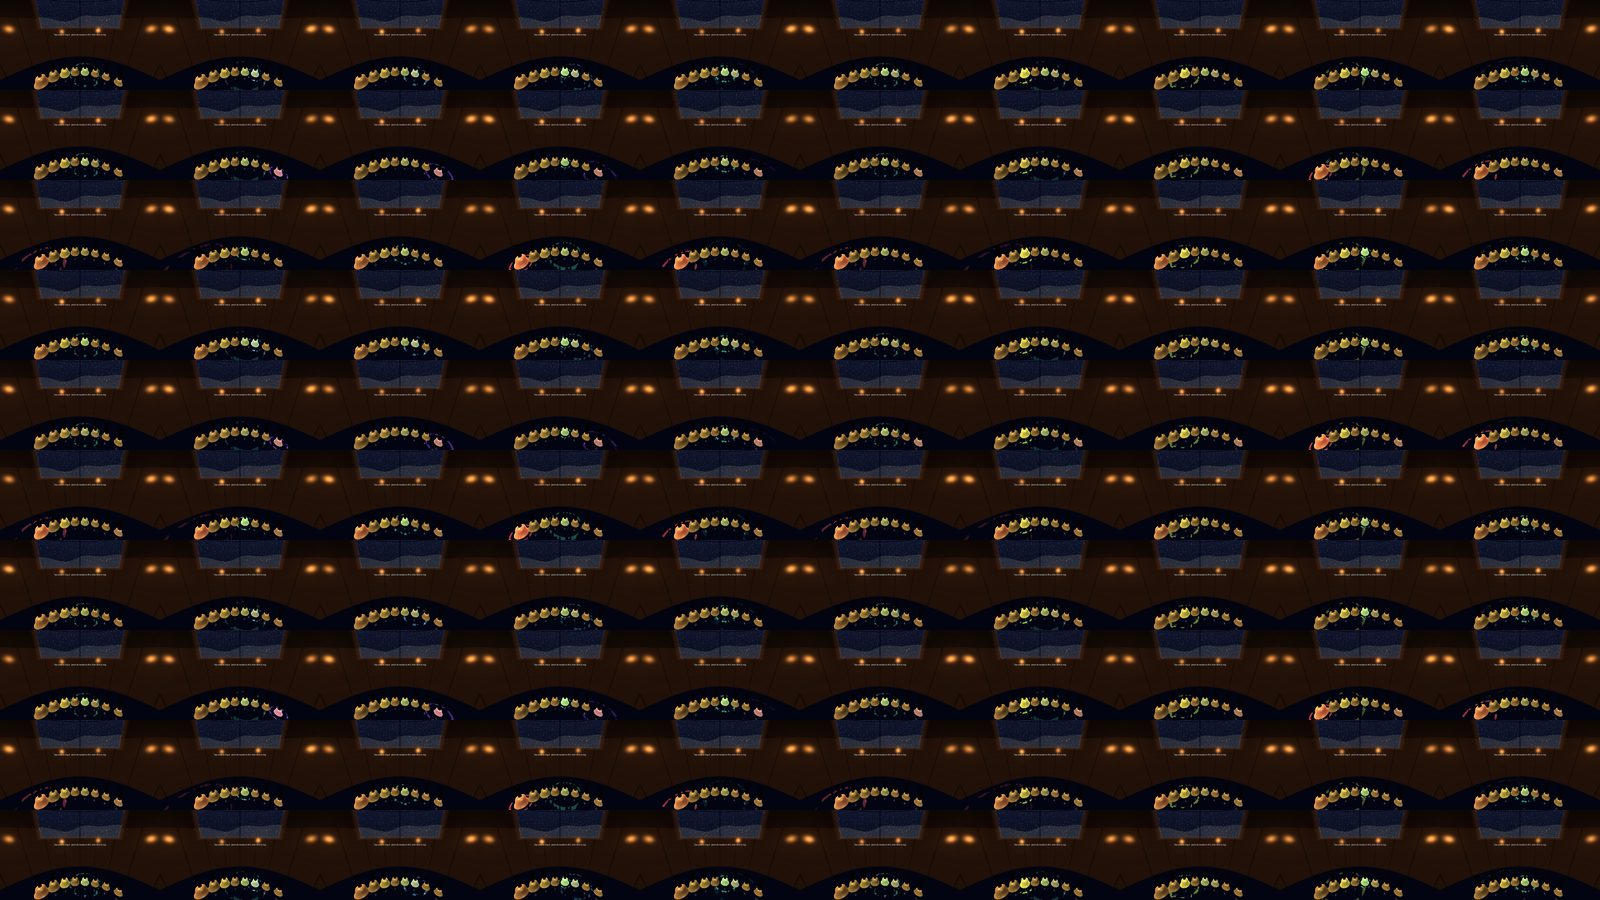
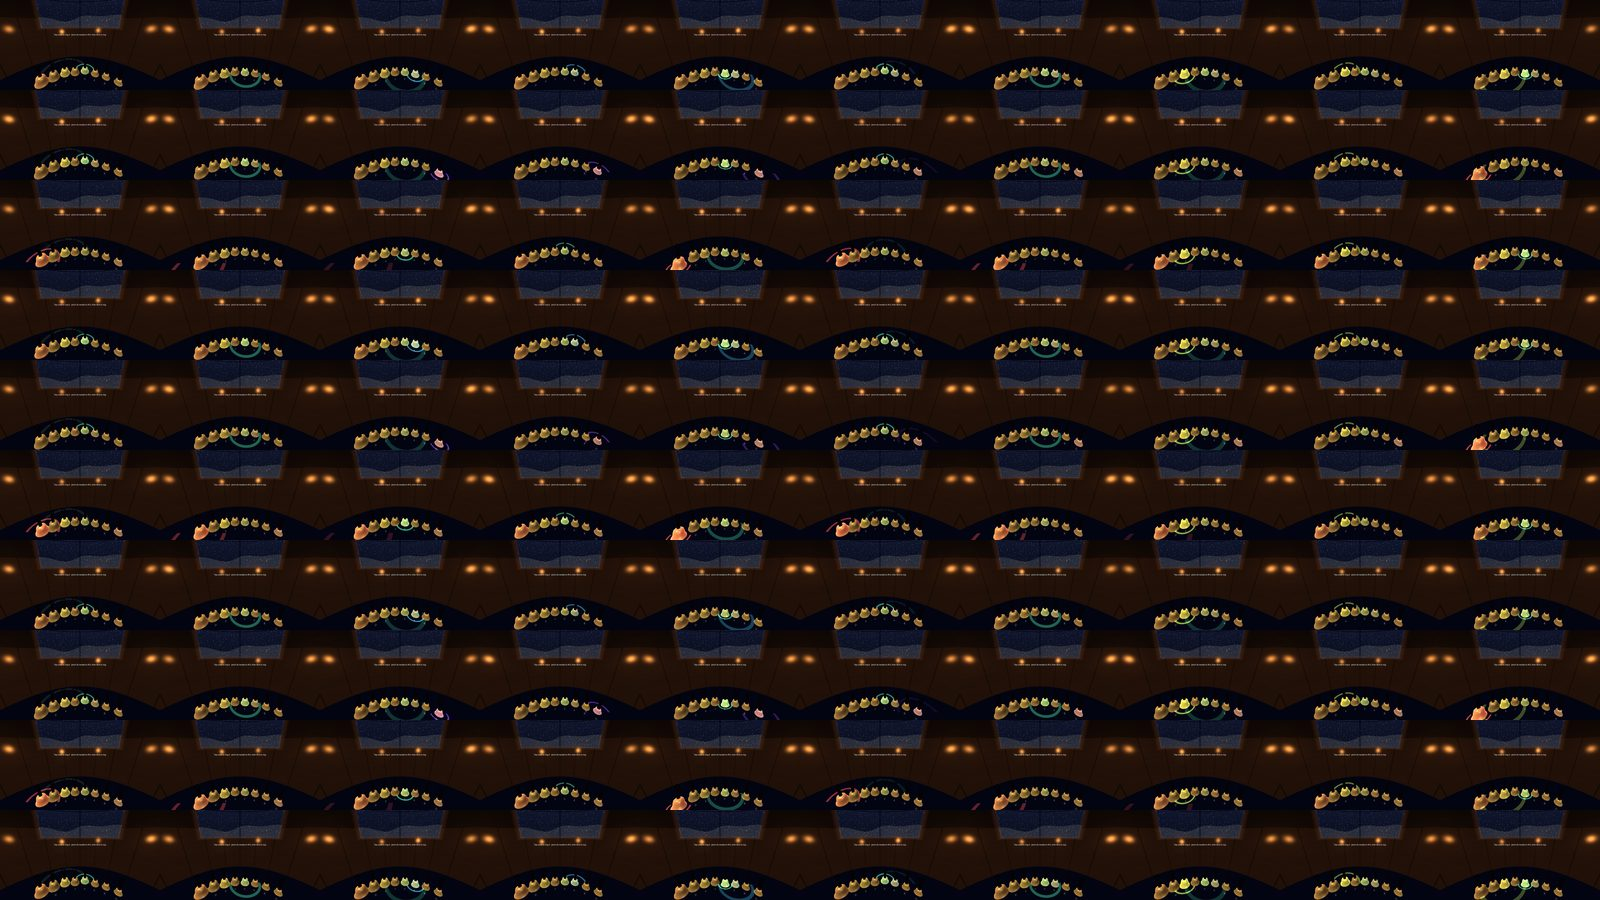
Church bells by hand in a brick tower; ringing handbells; quiet pointer at the bowls
- Church bells: red-brick walls with arched, diamond-leaded stained-glass windows
  and a rose at the top; sallies at head height on nearer ropes; ring with your
  own hands (close your hand or pinch round a sally and pull down), controllers
  squeeze at the rope; no pointer beams in this scene
- Handbells: a long shimmering ring (fundamental and twelfth for ~10 s, beating,
  octave harmonics), a soft metallic strike; bells rock on their handles when
  struck; a quick tap no longer damps the bell
- Singing bowls: near the bowls only the small hand marker shows; the full pointer
  returns when you move away
- sw v96

Claude-Session: https://claude.ai/code/session_0157Wu3LX7XvtocLAYFRUbic

diff --git a/src/visuals/scenes/bells.js b/src/visuals/scenes/bells.js
@@ -11,7 +11,7 @@ import { textPlane } from './imagecycle.js';
 // Touch a ringing bell down onto the table to damp it.
 //
 // Church bells: a tower ringing room. Six ropes hang in front of you, each with
-// its striped woolly sally; high above, through the open ceiling, six bells
+// its striped woolly sally at head height; take hold with your hand and pull. High above, through the open ceiling, six bells
 // rest mouth-up in their frame. Pull a rope and its bell swings right over and
 // speaks. A soft glow on the next sally leads you through rounds, treble to
 // tenor, or ring them however you like.
@@ -42,9 +42,9 @@ function strikeVoice(N, f, partials, gain, click) {
   // the clapper's strike: a tiny burst of bright noise
   if (N.noise && click) {
     const n = ctx.createBufferSource(); n.buffer = N.noise;
-    const bp = ctx.createBiquadFilter(); bp.type = 'bandpass'; bp.frequency.value = Math.min(9000, f * click); bp.Q.value = 1.5;
+    const bp = ctx.createBiquadFilter(); bp.type = 'bandpass'; bp.frequency.value = Math.min(9000, f * click); bp.Q.value = N.clickQ || 1.5;
     const g = ctx.createGain();
-    g.gain.setValueAtTime(gain * 0.5, now); g.gain.setTargetAtTime(0, now, 0.012);
+    g.gain.setValueAtTime(gain * (N.clickGain ?? 0.5), now); g.gain.setTargetAtTime(0, now, 0.012);
     n.connect(bp).connect(g).connect(N.out);
     n.start(now, Math.random() * 1.5, 0.12);
   }
@@ -150,7 +150,7 @@ class BellScene extends BaseScene {
 // ===================================================================== Handbells
 const HB_NOTES = [['C', 523.25], ['D', 587.33], ['E', 659.25], ['F', 698.46], ['G', 783.99], ['A', 880.0], ['B', 987.77], ['C', 1046.5]];
 // a handbell: a strong fundamental and its tuned twelfth, with a few bright, quick partials
-const HB_PARTIALS = [[1, 1, 5.5, 0.8], [3.0, 0.45, 3.0, 0], [4.18, 0.1, 1.3, 0], [5.42, 0.09, 0.9, 0], [6.8, 0.05, 0.6, 0], [2.0, 0.04, 2.0, 0]];
+const HB_PARTIALS = [[1, 1, 12, 1.1], [3.0, 0.42, 7, 0.7], [2.0, 0.1, 6, 0.5], [4.0, 0.06, 4, 0], [4.18, 0.05, 1.6, 0], [5.42, 0.05, 1.1, 0], [6.0, 0.03, 2.5, 0], [6.8, 0.025, 0.7, 0]];   // a long, shimmering ring
 const HB_TABLE = -0.5, HB_D = 0.52;
 
 export class HandbellsScene extends BellScene {
@@ -243,7 +243,7 @@ export class HandbellsScene extends BellScene {
       label.rotation.set(-Math.PI / 2 + 0.3, -a, 0, 'YXZ');
       this.rig.add(label);
       return { k, note, f, r, h, handle, a, g, u, halo, home, centre: () => g.position.clone().add(new THREE.Vector3(0, -handle - h * 0.5, 0)),
-        ring: 0, haloT: 9, holder: null, grab: 0, prev: null, vel: new THREE.Vector3(), peak: 0, armed: false, tilt: new THREE.Quaternion(), tipIn: new Map(), N: null };
+        ring: 0, haloT: 9, holder: null, grab: 0, prev: null, vel: new THREE.Vector3(), peak: 0, armed: false, tilt: new THREE.Quaternion(), rock: new THREE.Vector2(), rockV: new THREE.Vector2(), tipIn: new Map(), N: null };
     });
 
     this.hint = textPlane(U, 0.9, 0.06);
@@ -252,13 +252,18 @@ export class HandbellsScene extends BellScene {
     this.rig.add(this.hint);
   }
 
-  _ring(b, strength) {
-    if (!b.N || !b.N.ctx || b.N.dead) b.N = bellOut(this, Math.max(-0.8, Math.min(0.8, Math.sin(b.a) * 2.2)), 0.5);
+  _ring(b, strength, dir) {
+    // the bell rocks on its handle, away from where it was struck
+    const kick = (dir || new THREE.Vector3(0, 0, -1)).clone().setY(0);
+    if (kick.lengthSq() < 1e-6) kick.set(0, 0, -1);
+    kick.normalize().multiplyScalar(1.6 + strength * 2.4);
+    b.rockV.x += kick.z; b.rockV.y -= kick.x;
+    if (!b.N || !b.N.ctx || b.N.dead) { b.N = bellOut(this, Math.max(-0.8, Math.min(0.8, Math.sin(b.a) * 2.2)), 0.85); if (b.N) { b.N.clickGain = 0.12; b.N.clickQ = 5; } }
     const N = b.N;
     if (!N) { b.ring = 1; b.haloT = 0; return; }
     N.out.gain.cancelScheduledValues(N.ctx.currentTime);
     N.out.gain.setValueAtTime(1, N.ctx.currentTime);
-    strikeVoice(N, b.f, HB_PARTIALS, 0.12 * Math.min(1.3, 0.45 + strength), 6);
+    strikeVoice(N, b.f, HB_PARTIALS, 0.11 * Math.min(1.3, 0.5 + strength), 9);
     b.ring = 1; b.haloT = 0;
     this.hintA = Math.min(this.hintA, 0.99);
   }
@@ -297,17 +302,17 @@ export class HandbellsScene extends BellScene {
           const prev = b.tipIn.get(p.id);
           if (inside && prev && !prev.inside) {
             const sp = prev.pos.distanceTo(p.tip) / Math.max(dt, 1e-3);
-            if (sp > 0.3) this._ring(b, Math.min(1, sp / 1.5));
+            if (sp > 0.3) this._ring(b, Math.min(1, sp / 1.5), p.tip.clone().sub(prev.pos));
           }
           b.tipIn.set(p.id, { inside, pos: p.tip.clone() });
         }
       }
       if (best && p.press) {
-        this._ring(best, 0.5);
+        this._ring(best, 0.5, p.tip ? best.centre().sub(p.tip) : p.d);
         // and pick it up while the pinch is held
         best.holder = p.id;
         best.grab = p.tip ? 0 : best.g.position.distanceTo(p.o);
-        best.prev = null; best.peak = 0; best.armed = false;
+        best.prev = null; best.peak = 0; best.armed = false; best.lifted = false;
       }
     }
 
@@ -315,20 +320,19 @@ export class HandbellsScene extends BellScene {
       if (b.holder == null) {
         // settle home; touching down on the table damps it
         const d = b.g.position.distanceTo(b.home);
-        if (d > 0.002) { b.g.position.lerp(b.home, 1 - Math.exp(-dt * 7)); if (b.g.position.distanceTo(b.home) < 0.01 && b.ring > 0.05 && b.wasHeld) { this._damp(b); } }
-        else b.wasHeld = false;
+        if (d > 0.002) b.g.position.lerp(b.home, 1 - Math.exp(-dt * 7));
         b.vel.multiplyScalar(Math.exp(-dt * 6));
       } else {
-        b.wasHeld = true;
         // a flick: the bell speeds up, then stops sharply; that's when the clapper strikes
         if (b.prev) {
           const v = b.g.position.clone().sub(b.prev).divideScalar(Math.max(dt, 1e-3));
           b.vel.lerp(v, 1 - Math.exp(-dt * 25));
           const sp = b.vel.length();
-          if (sp > 0.9) { b.armed = true; b.peak = Math.max(b.peak, sp); }
-          if (b.armed && sp < b.peak * 0.45) { this._ring(b, Math.min(1, b.peak / 3)); b.armed = false; b.peak = 0; }
+          if (sp > 0.9) { b.armed = true; if (sp > b.peak) { b.peak = sp; b.flick = b.vel.clone(); } }
+          if (b.armed && sp < b.peak * 0.45) { this._ring(b, Math.min(1, b.peak / 3), b.flick || b.vel); b.armed = false; b.peak = 0; }
           // lowered onto the table: damped
-          if (b.g.position.y - b.handle - b.h < HB_TABLE + 0.01 && b.ring > 0.05) this._damp(b);
+          if (b.g.position.distanceTo(b.home) > 0.05) b.lifted = true;
+          if (b.lifted && b.g.position.y - b.handle - b.h < HB_TABLE + 0.012 && b.ring > 0.05) { this._damp(b); b.lifted = false; }
         }
         b.prev = b.g.position.clone();
       }
@@ -339,7 +343,13 @@ export class HandbellsScene extends BellScene {
       const q = new THREE.Quaternion();
       if (ang > 1e-3) q.setFromAxisAngle(new THREE.Vector3(0, 1, 0).cross(sw).normalize(), -ang);
       b.tilt.slerp(q, 1 - Math.exp(-dt * 10));
-      b.g.quaternion.copy(b.tilt);
+      // a struck bell rocks back and forth on its handle, settling
+      const k = (2 * Math.PI * 1.8) ** 2;
+      b.rockV.x += (-k * b.rock.x - 3.0 * b.rockV.x) * dt; b.rockV.y += (-k * b.rock.y - 3.0 * b.rockV.y) * dt;
+      b.rock.x += b.rockV.x * dt; b.rock.y += b.rockV.y * dt;
+      b.rock.clampLength(0, 0.35);
+      const rq = new THREE.Quaternion().setFromEuler(new THREE.Euler(b.rock.x, 0, b.rock.y));
+      b.g.quaternion.copy(b.tilt).multiply(rq);
       // light
       b.ring *= Math.exp(-dt / 1.2);
       b.haloT += dt;
@@ -367,12 +377,13 @@ export class HandbellsScene extends BellScene {
 const CB_NOTES = [['Treble', 987.77], ['2', 880.0], ['3', 783.99], ['4', 739.99], ['5', 659.25], ['Tenor', 587.33]];
 // a church bell's partials relative to its nominal: hum, prime, minor-third tierce, quint, nominal and above
 const CB_PARTIALS = [[0.25, 0.5, 14, 0.6], [0.5, 0.45, 9, 0.9], [0.595, 0.5, 7, 0], [0.75, 0.16, 4, 0], [1.0, 1.0, 5, 1.3], [1.25, 0.25, 2.6, 0], [1.5, 0.28, 2.0, 0], [2.0, 0.2, 1.3, 0], [2.52, 0.12, 0.9, 0], [3.0, 0.07, 0.6, 0]];
-const ROPE_R = 0.6, BELL_R = 1.65, BELL_Y = 4.1, CEIL = 2.0, FLOOR = -1.6, SWING = (172 / 180) * Math.PI, SWING_T = 1.5;
+const ROPE_R = 0.5, BELL_R = 1.65, BELL_Y = 4.1, CEIL = 2.0, FLOOR = -1.6, SWING = (172 / 180) * Math.PI, SWING_T = 1.5;
 
 export class ChurchBellsScene extends BellScene {
   constructor() {
     super();
-    this.viewPitch = 0.0;
+    this.viewPitch = 0.1;
+    this.wantsHands = true;   // you ring with your own hands, not a pointer
     const U = this.uniforms;
 
     // the tower: stone walls with lancet windows, a timber ceiling open in the
@@ -383,6 +394,36 @@ export class ChurchBellsScene extends BellScene {
       fragmentShader: /* glsl */ `uniform float uTime, uFade; varying vec3 vDir; ${NOISE} ${GRADE}
         const float WR = 3.0, CEIL = ${CEIL.toFixed(2)}, FLOOR = ${FLOOR.toFixed(2)}, TOP = 6.5, HOLE = 2.0;
         vec3 dusk(vec3 d){ return mix(vec3(0.95, 0.5, 0.28), vec3(0.18, 0.2, 0.42), smoothstep(-0.05, 0.5, d.y)) + vec3(1.0, 0.75, 0.4) * pow(max(dot(d, normalize(vec3(-0.6, 0.1, -0.8))), 0.0), 40.0); }
+        float h21(vec2 p){ return fract(sin(dot(p, vec2(127.1, 311.7))) * 43758.5453); }
+        vec3 brick(vec3 p){ vec2 b = vec2(atan(p.x, -p.z) * WR, p.y) / vec2(0.23, 0.075);
+          b.x += step(1.0, mod(floor(b.y), 2.0)) * 0.5;
+          vec2 id = floor(b), f = fract(b);
+          float m = smoothstep(0.0, 0.06, min(min(f.x, 1.0 - f.x) * 0.23 / 0.075, min(f.y, 1.0 - f.y)));
+          float r = h21(id);
+          vec3 c = mix(vec3(0.42, 0.12, 0.07), vec3(0.62, 0.26, 0.14), r) * (0.8 + 0.35 * fbm(p * 18.0));
+          c = mix(c, vec3(0.3, 0.16, 0.12), step(0.93, r) * 0.6);   // the odd darker, burnt brick
+          return mix(vec3(0.2, 0.18, 0.16), c, m); }
+        // stained glass: leaded panes in jewel colours, lit from outside by the dusk
+        vec3 glass(vec2 q, vec3 d){
+          // diamond quarries in pale tinted glass, a jewel-coloured border, and coloured panes in the middle
+          vec2 g = vec2(q.x * 0.7071 * 18.0 + q.y * 0.7071 * 12.0, -q.x * 0.7071 * 18.0 + q.y * 0.7071 * 12.0);
+          vec2 id = floor(g), f = fract(g);
+          float lead = smoothstep(0.07, 0.0, min(min(f.x, 1.0 - f.x), min(f.y, 1.0 - f.y)));
+          float r = h21(id + 3.0);
+          vec3 c = mix(vec3(0.95, 0.88, 0.62), vec3(0.8, 0.85, 0.75), r);
+          if (r > 0.82) c = r > 0.94 ? vec3(0.75, 0.1, 0.12) : r > 0.88 ? vec3(0.15, 0.3, 0.85) : vec3(0.2, 0.6, 0.3);
+          float edge = abs(q.x) - 0.27;
+          if (edge > 0.0 && q.y < 1.02) {   // the border strip, in small coloured panes
+            float bi = floor(q.y * 12.0), bf = fract(q.y * 12.0);
+            c = mod(bi, 3.0) < 1.0 ? vec3(0.75, 0.1, 0.12) : mod(bi, 3.0) < 2.0 ? vec3(0.12, 0.25, 0.8) : vec3(0.95, 0.65, 0.12);
+            lead = max(smoothstep(0.08, 0.0, min(bf, 1.0 - bf)), smoothstep(0.012, 0.0, abs(edge)));
+          }
+          // a rose at the top of each window
+          vec2 rq = q - vec2(0.0, 1.12);
+          float rr = length(rq), ra = atan(rq.y, rq.x);
+          if (rr < 0.17) { c = mix(vec3(0.85, 0.12, 0.2), vec3(0.98, 0.8, 0.25), step(0.5, fract(ra * 1.2732 + 0.25))); c = mix(c, vec3(0.2, 0.3, 0.9), step(rr, 0.06)); lead = max(smoothstep(0.012, 0.0, abs(rr - 0.06)), smoothstep(0.03, 0.0, abs(fract(ra * 1.2732 + 0.25) - 0.5) * rr)); }
+          vec3 light = dusk(d) * 1.4 + 0.15;
+          return c * light * (0.8 + 0.3 * fbm(vec3(q * 30.0, 2.0))) * (1.0 - lead * 0.9); }
         vec3 stone(vec3 p){ vec2 b = vec2(atan(p.x, -p.z) * WR, p.y); b.x += step(1.0, mod(floor(b.y / 0.3), 2.0)) * 0.22;
           vec2 f = fract(b / vec2(0.45, 0.3)); float m = smoothstep(0.0, 0.05, min(min(f.x, 1.0 - f.x) * 0.45, min(f.y, 1.0 - f.y) * 0.3) * 3.0);
           return mix(vec3(0.08, 0.06, 0.05), vec3(0.32, 0.26, 0.2) * (0.75 + 0.4 * fbm(p * 6.0)), m); }
@@ -397,13 +438,15 @@ export class ChurchBellsScene extends BellScene {
             c = mix(c, vec3(0.35, 0.05, 0.05) * (0.8 + 0.2 * fbm(p * 20.0)), smoothstep(1.25, 1.2, length(p.xz)));   // a red carpet ring where the ringers stand
           } else if (yw < CEIL) {
             vec3 p = d * tw;
-            c = stone(p) * (0.55 + 0.45 * smoothstep(FLOOR, CEIL, yw));
-            // tall lancet windows glowing with dusk, and boards with peal records between them
-            float k = fract(az / 6.2832 * 5.0) - 0.5, win = abs(k) * 6.2832 / 5.0 * WR;
-            float top = 1.3 + sqrt(max(0.0, 0.09 - win * win)) - 0.3;
-            if (win < 0.25 && yw > 0.0 && yw < top) c = dusk(d) * 0.7 * (1.0 - 0.7 * smoothstep(0.015, 0.0, abs(win - 0.0)));
-            else if (abs(k + 0.5) < 0.07 || abs(k - 0.5) < 0.07) {}
-            if (abs(abs(k) - 0.28) < 0.07 && yw > 0.2 && yw < 0.9) c = vec3(0.12, 0.06, 0.03) + vec3(0.6, 0.45, 0.15) * step(0.5, fbm(vec3(az * 80.0, yw * 40.0, 1.0))) * step(fract(yw * 14.0), 0.5) * 0.4;
+            c = brick(p) * (0.55 + 0.45 * smoothstep(FLOOR, CEIL, yw));
+            // tall arched windows of stained glass, in stone surrounds
+            float k = fract(az / 6.2832 * 6.0) - 0.5, wx = k * 6.2832 / 6.0 * WR;
+            const float W = 0.36, BASE = -0.35, SPRING = 1.0;
+            vec2 q = vec2(wx, yw);
+            float inArch = yw < SPRING ? step(abs(wx), W) : step(length(vec2(abs(wx) + W * 0.6, yw - SPRING)), W * 1.6);   // a pointed arch
+            float inSurround = yw < SPRING ? step(abs(wx), W + 0.07) : step(length(vec2(abs(wx) + W * 0.6, yw - SPRING)), W * 1.6 + 0.07);
+            if (yw > BASE - 0.07 && inSurround > 0.5) c = vec3(0.42, 0.38, 0.32) * (0.7 + 0.4 * fbm(p * 9.0));
+            if (yw > BASE && inArch > 0.5) c = glass(q, d);
             c += vec3(0.45, 0.25, 0.1) * 0.12 * smoothstep(1.2, -1.2, yw);   // warm light from below
           } else {
             vec3 p = d * (CEIL / d.y);
@@ -413,7 +456,7 @@ export class ChurchBellsScene extends BellScene {
             } else if (yw < TOP) {
               // the belfry: stone with louvred openings
               vec3 q = d * tw;
-              c = stone(q) * 0.45;
+              c = brick(q) * 0.4;
               float k = fract(az / 6.2832 * 4.0 + 0.125) - 0.5, wx = abs(k) * 6.2832 / 4.0 * WR;
               if (wx < 0.45 && yw > 3.3 && yw < 5.6) {
                 float louvre = step(0.45, fract(yw * 7.0));
@@ -492,7 +535,7 @@ export class ChurchBellsScene extends BellScene {
       const label = textPlane(U, 0.16, 0.035);
       label.userData.set(name);
       label.material.uniforms.uA.value = 0.35;
-      label.position.set(x * 0.8, -0.42, z * 0.8);
+      label.position.set(x * 0.8, -0.55, z * 0.8);
       label.rotation.y = -a;
       this.rig.add(label);
       return { k, name, f, a, R, u, halo, swing, lower, su, x, z, theta: SWING, from: SWING, to: SWING, st: 9, struck: true, ring: 0, haloT: 9, N: null, grab: null };
@@ -502,7 +545,7 @@ export class ChurchBellsScene extends BellScene {
 
     this.hint = textPlane(U, 1.0, 0.06);
     this.hint.position.set(0, 0.32, -0.95);
-    this.hint.userData.set('Pull a rope to ring its bell · follow the glow to ring rounds');
+    this.hint.userData.set('Take hold of a sally and pull down to ring its bell · follow the glow to ring rounds');
     this.rig.add(this.hint);
   }
 
@@ -527,39 +570,67 @@ export class ChurchBellsScene extends BellScene {
     this.rig.updateMatrixWorld(true);
     const inv = new THREE.Matrix4().copy(this.rig.matrixWorld).invert();
     const pointers = (this.demo ? this._demoPointers(t) : INPUT.pointers).map((p) => this._local(p, inv));
+    // no light-saber beams here: just your hands
     const over = this.hideRays ||= new Set();
     over.clear();
+    for (const p of INPUT.pointers) if (p.id !== 'mouse') over.add(p.id);
 
+    // hands: tracked hands close round a rope (a fist or a pinch); controllers squeeze at the rope
+    const hands = [];
+    for (const h of INPUT.hands) {
+      const J = h.joints, palm = J[10] || J[0];
+      if (!palm || !J[0]) continue;
+      const fist = J[14] && J[14].distanceTo(J[0]) < 0.105;
+      const pinch = J[4] && J[9] && J[4].distanceTo(J[9]) < 0.028;
+      hands.push({ id: 'hand-' + h.side, pos: palm.clone().applyMatrix4(inv), closed: fist || pinch });
+    }
+    if (!hands.length) for (const p of pointers) if (p.id !== 'mouse' && !this.demo) hands.push({ id: p.id, pos: (p.tip || p.o).clone(), closed: p.held || p.press });
+    for (const h of hands) {
+      const was = this.handWas?.get(h.id);
+      (this.handWas ||= new Map()).set(h.id, h.closed);
+      const grabbing = this.bells.find((b) => b.grab && b.grab.id === h.id);
+      if (grabbing) {
+        const drop = grabbing.grab.y - h.pos.y;
+        grabbing.su.uPull.value = Math.min(1, Math.max(0, drop / 0.08));
+        if (drop > 0.07) { this._pull(grabbing, Math.min(1, drop / 0.25 + 0.5)); grabbing.grab = null; }
+        else if (!h.closed) grabbing.grab = null;
+        continue;
+      }
+      if (!h.closed || was) continue;   // a hand closing round a rope takes hold
+      let best = null, bd = 0.09;
+      for (const b of this.bells) {
+        const y = h.pos.y - b.lower.position.y;
+        if (y < -1.05 || y > 0.25) continue;
+        const d = Math.hypot(h.pos.x - b.x, h.pos.z - b.z);
+        if (d < bd) { bd = d; best = b; }
+      }
+      if (best) best.grab = { id: h.id, y: h.pos.y };
+    }
+
+    // on a screen (and in previews): click a rope, or drag it down
     for (const p of pointers) {
-      // the rope nearest this pointer, between the tail end and well above the sally
-      let best = null, bd = Infinity, at = null;
+      if (p.id !== 'mouse' && !this.demo) continue;
+      let best = null, bd = Infinity;
       for (const b of this.bells) {
         const yOff = b.lower.position.y;
-        let off, y;
-        if (p.tip) { off = Math.hypot(p.tip.x - b.x, p.tip.z - b.z); y = p.tip.y - yOff; off /= 0.06; }
-        else {
-          // closest approach of the ray to the vertical rope line
-          const w = new THREE.Vector3(p.o.x - b.x, 0, p.o.z - b.z), dd = new THREE.Vector3(p.d.x, 0, p.d.z);
-          const tt = dd.lengthSq() > 1e-6 ? Math.max(0, -w.dot(dd) / dd.lengthSq()) : 0;
-          off = w.addScaledVector(dd, tt).length() / 0.055;
-          y = p.o.y + p.d.y * tt - yOff;
-        }
-        if (y < -1.0 || y > 0.4) continue;
-        if (off < 1 && off < bd) { bd = off; best = b; at = y; }
+        const w = new THREE.Vector3(p.o.x - b.x, 0, p.o.z - b.z), dd = new THREE.Vector3(p.d.x, 0, p.d.z);
+        const tt = dd.lengthSq() > 1e-6 ? Math.max(0, -w.dot(dd) / dd.lengthSq()) : 0;
+        const off = w.addScaledVector(dd, tt).length() / 0.055;
+        const y = p.o.y + p.d.y * tt - yOff;
+        if (y < -1.05 || y > 0.25) continue;
+        if (off < 1 && off < bd) { bd = off; best = b; }
       }
-      if (best) over.add(p.id);
-      // grab and pull down; a quick press-and-release rings it too
       const grabbing = this.bells.find((b) => b.grab && b.grab.id === p.id);
       if (grabbing) {
-        const y = p.tip ? p.tip.y : p.o.y + p.d.y * grabbing.grab.t;
+        const y = p.o.y + p.d.y * grabbing.grab.t;
         const drop = grabbing.grab.y - y;
         grabbing.su.uPull.value = Math.min(1, Math.max(0, drop / 0.08));
         if (drop > 0.06 || !p.held) { this._pull(grabbing, Math.min(1, drop / 0.25 + 0.4)); grabbing.grab = null; }
         continue;
       }
       if (best && p.press) {
-        const tt = p.tip ? 0 : Math.hypot(best.x - p.o.x, best.z - p.o.z) / Math.max(1e-3, Math.hypot(p.d.x, p.d.z));
-        best.grab = { id: p.id, y: p.tip ? p.tip.y : p.o.y + p.d.y * tt, t: tt };
+        const tt = Math.hypot(best.x - p.o.x, best.z - p.o.z) / Math.max(1e-3, Math.hypot(p.d.x, p.d.z));
+        best.grab = { id: p.id, y: p.o.y + p.d.y * tt, t: tt };
         if (!p.held) { this._pull(best, 0.6); best.grab = null; }
       }
     }
@@ -572,7 +643,7 @@ export class ChurchBellsScene extends BellScene {
       if (!b.struck && s > 0.82) { b.struck = true; this._strike(b); }
       b.swing.rotation.x = b.theta;
       // the rope rises and falls with the wheel; the sally comes down at handstroke
-      b.lower.position.y = -0.22 * (b.theta / SWING) - 0.05;
+      b.lower.position.y = 0.25 - 0.15 * (b.theta / SWING);   // sally at about eye height, higher at backstroke
       b.pulled = (b.pulled || 0) * Math.exp(-dt * 3);
       if (!b.grab) b.su.uPull.value = b.pulled * 0.6;
       b.su.uNext.value += ((b.k === this.next ? 1 : 0) - b.su.uNext.value) * (1 - Math.exp(-dt * 5));

diff --git a/src/visuals/scenes/bowls.js b/src/visuals/scenes/bowls.js
@@ -390,6 +390,20 @@ export class SingingBowlsScene extends BaseScene {
     return best;
   }
 
+  // is a pointer anywhere around the bowls (a fingertip close by, or a ray passing near one)?
+  _near(p) {
+    const inv = new THREE.Matrix4().copy(this.rig.matrixWorld).invert();
+    const o = p.origin.clone().applyMatrix4(inv), d = p.dir.clone().transformDirection(inv);
+    const tip = p.tip ? p.tip.clone().applyMatrix4(inv) : null;
+    for (const b of this.bowls) {
+      const c = new THREE.Vector3(b.g.position.x, b.g.position.y + b.lift + b.h * 0.6, b.g.position.z);
+      if (tip && tip.distanceTo(c) < b.r + 0.14) return true;
+      const v = c.clone().sub(o), k = Math.max(0, v.dot(d));
+      if (v.addScaledVector(d, -k).length() < b.r + 0.08) return true;
+    }
+    return false;
+  }
+
   update(dt, t) {
     if (this.placeNext) this.placeNext = !this._place();
     this.rig.updateMatrixWorld(true);
@@ -397,6 +411,15 @@ export class SingingBowlsScene extends BaseScene {
     const seen = new Set();
 
     const pointers = this.demo ? this._demoPointers(t) : INPUT.pointers;
+    // while you're playing the bowls, only the small marker at your hand shows;
+    // move right away from them and the full pointer comes back
+    const over = this.hideRays ||= new Set();
+    this.nearT ||= new Map();
+    for (const p of pointers) {
+      const c0 = this._contact(p);
+      if (c0 || this._near(p)) this.nearT.set(p.id, t);
+      if (t - (this.nearT.get(p.id) ?? -9) < 0.5) over.add(p.id); else over.delete(p.id);
+    }
     for (const p of pointers) {
       const c = this._contact(p);
       if (!c) { const pr = this.touch.get(p.id); if (pr && t - (pr.b.rubT ?? -9) > 0.3) this.touch.delete(p.id); continue; }   // a brief slip off the rim doesn't break the stroke

diff --git a/public/sw.js b/public/sw.js
@@ -1,7 +1,7 @@
 // Network-first with offline fallback: you always get the newest version
 // (and any newly recorded voice clips) when online, and MindLyte still works
 // with no connection because everything it plays is generated on-device.
-const CACHE = 'mindlyte-v95';
+const CACHE = 'mindlyte-v96';
 const SHELL = ['./', './index.html', './app.js', './styles.css', './manifest.webmanifest', './icons/icon-192.png', './icons/icon-512.png'];
 
 self.addEventListener('install', (e) => {
